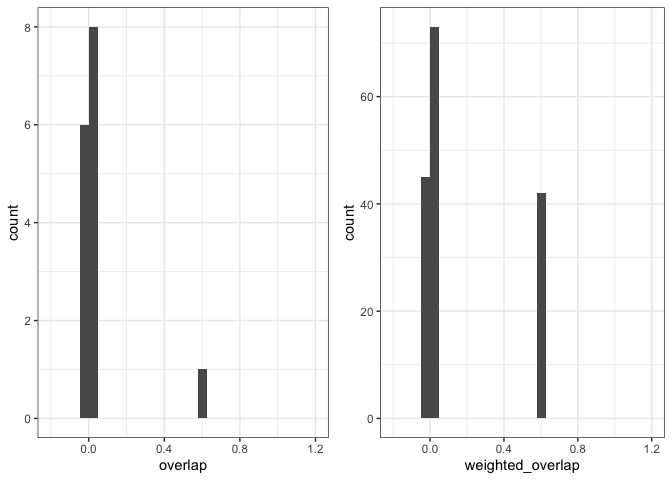
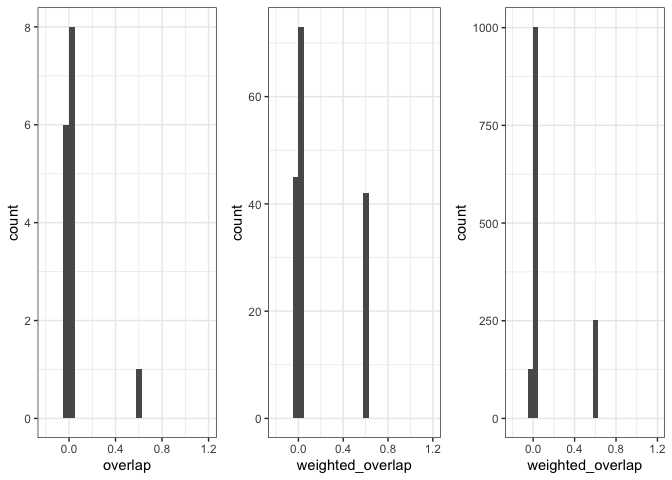
total n weighting, this is coars coarse but potentially informative

diff --git a/analysis/portal.md b/analysis/portal.md
@@ -35,8 +35,18 @@ r_o_w_h <- ggplot(data = real_overlap_weighted, aes(x = weighted_overlap)) +
   theme_bw() +
   xlim(-.2, 1.2)
 
-gridExtra::grid.arrange(grobs = list(r_o_h, r_o_w_h), nrow = 1)
+real_overlap_n_weighted <- data.frame(
+  weighted_overlap = rep(real_overlap$overlap, times = round(real_overlap$total_n)))
+r_o_w_n_h <- ggplot(data = real_overlap_n_weighted, aes(x = weighted_overlap)) +
+  geom_histogram(boundary = 0) +
+  theme_bw() +
+  xlim(-.2, 1.2)
+gridExtra::grid.arrange(grobs = list(r_o_h, r_o_w_h, r_o_w_n_h), nrow = 1)
 ```
+
+    ## `stat_bin()` using `bins = 30`. Pick better value with `binwidth`.
+
+    ## Warning: Removed 2 rows containing missing values (geom_bar).
 
     ## `stat_bin()` using `bins = 30`. Pick better value with `binwidth`.
 
@@ -113,12 +123,22 @@ o_s_h <- ggplot(data = overlapped_overlaps, aes(x = overlap)) +
   xlim(-.2, 1.2) +
   facet_wrap(vars(sim), scales = "free_y")
 
-overlapped_overlaps_weighted <- data.frame(
+overlapped_overlaps_hm_weighted <- data.frame(
   sim = rep(overlapped_overlaps$sim, times = round(overlapped_overlaps$hm)),
   overlap_w = rep(overlapped_overlaps$overlap, times = round(overlapped_overlaps$hm))
 )
 
-o_s_w_h <- ggplot(data = overlapped_overlaps_weighted, aes(x = overlap_w)) +
+o_s_w_h <- ggplot(data = overlapped_overlaps_hm_weighted, aes(x = overlap_w)) +
+    geom_histogram(boundary = 0) +
+  theme_bw() +
+  xlim(-.2, 1.2) +
+  facet_wrap(vars(sim), scales = "free_y")
+
+overlapped_overlaps_n_weighted <- data.frame(
+  sim = rep(overlapped_overlaps$sim, times = round(overlapped_overlaps$total_n)),
+  overlap_w = rep(overlapped_overlaps$overlap, times = round(overlapped_overlaps$total_n))
+)
+o_s_w_n_h <- ggplot(data = overlapped_overlaps_n_weighted, aes(x = overlap_w)) +
     geom_histogram(boundary = 0) +
   theme_bw() +
   xlim(-.2, 1.2) +
@@ -141,3 +161,13 @@ o_s_w_h
     ## Warning: Removed 50 rows containing missing values (geom_bar).
 
 ![](portal_files/figure-markdown_github/complete%20overlap-4.png)
+
+``` r
+o_s_w_n_h
+```
+
+    ## `stat_bin()` using `bins = 30`. Pick better value with `binwidth`.
+
+    ## Warning: Removed 50 rows containing missing values (geom_bar).
+
+![](portal_files/figure-markdown_github/complete%20overlap-5.png)
